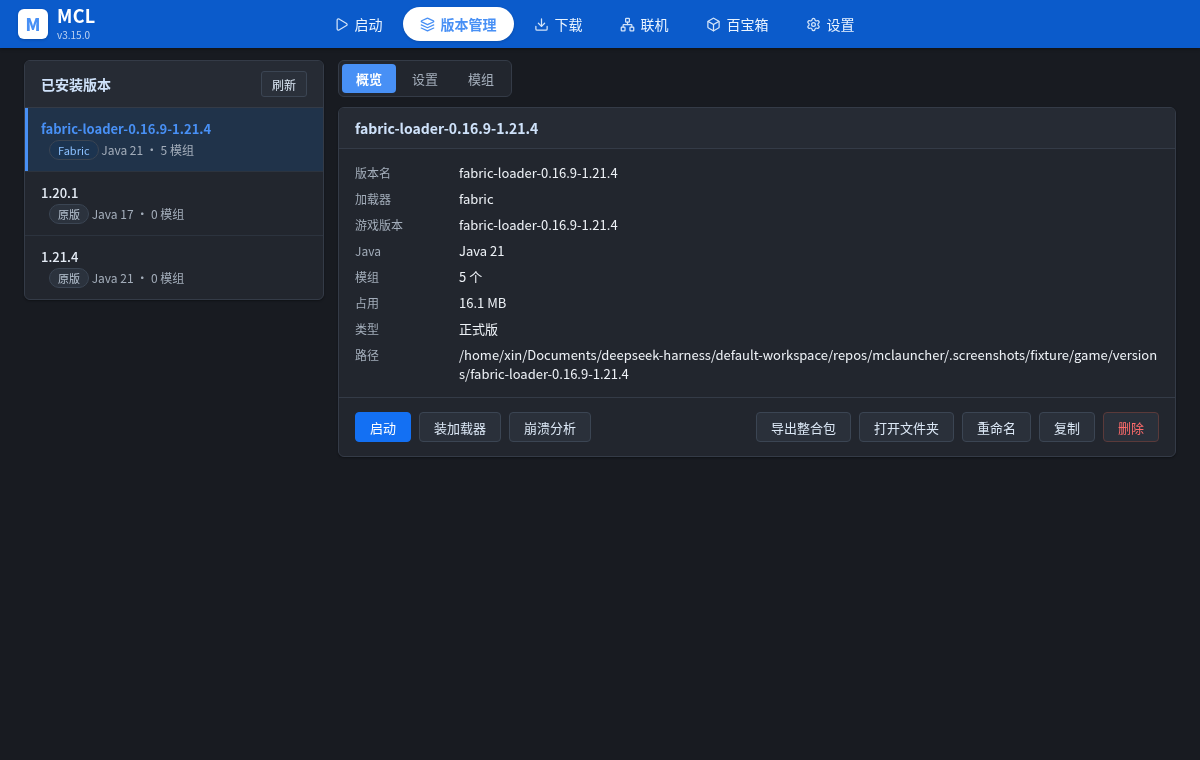
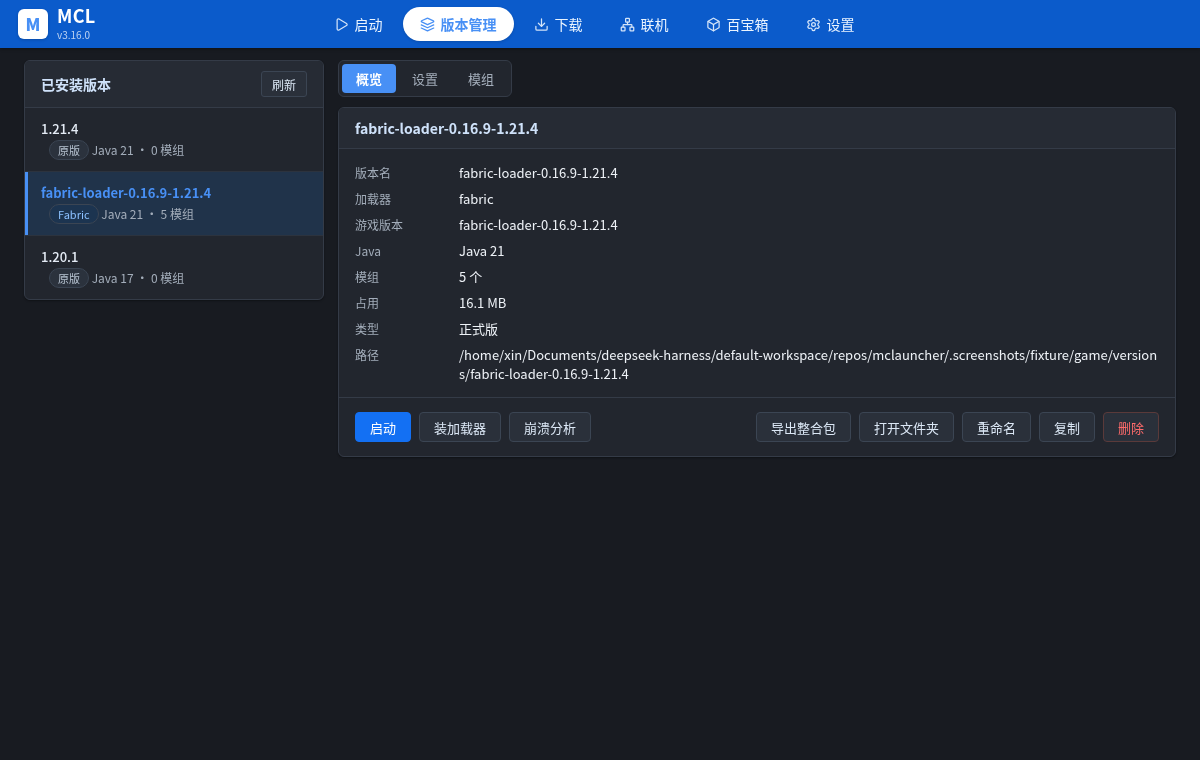
feat: 启动页显示最新版本与更新日志 + 3.17.0
PCL 的启动页右侧有公告区。mclauncher 的启动页右边只有「已安装版本」，
新版本有什么变化得自己去 GitHub 看。

- update.check() 带上发布说明（name / notes，截断 4000 字）
- /api/update 加 10 分钟缓存（?force=1 绕过）；查不到时退回上次结果，
  不让启动页因为网络问题报错
- 启动页右侧顶部新增「最新版本」卡片：版本号、有新版本徽章、发布说明前 6 行、
  查看全部链接、发布日期
- 发布说明是 Markdown，拍平成纯文本：去标题符号、去列表符号、去加粗、
  链接只留文字、过滤 Full Changelog 行
- 测试 226 → 229（notes/截断/缓存各一个）

顺带修了个正则 bug：列表符号规则原来写成 /^[*+-]\s*/，会把 **加粗** 的第一个
星号吃掉，导致 "**Full Changelog**" 变成 "*Full Changelog**" 过滤不掉。
改成必须跟空格（/^[*+-]\s+/）。冒烟测试先失败后通过。

Changed region(s): [[0.0, 0.1211, 0.2775, 0.3329]]

diff --git a/gui/src/renderer.ts b/gui/src/renderer.ts
@@ -35,6 +35,7 @@ interface JavaListing {
 interface UpdateInfo {
   current: string; latest: string; update_available: boolean;
   page: string; published: string; prerelease: boolean;
+  name: string; notes: string; cached?: boolean;
   assets: { name: string; size: number; url: string }[];
 }
 interface AboutInfo {
@@ -274,6 +275,13 @@ function renderVersions(): void {
         <div class="launch-note">${state.versions.length ? "启动前会自动检查 Java 和依赖库。" : "还没有安装任何版本。"}</div>
       </aside>
       <section class="launch-main">
+        <div class="card" id="launch-news">
+          <div class="card-head">
+            <span class="card-title">最新版本</span>
+            <button class="btn sm" id="news-reload">刷新</button>
+          </div>
+          <div class="card-body"><div class="empty">加载中…</div></div>
+        </div>
         ${state.versions.length ? `
         <div class="card">
           <div class="card-head">
@@ -307,6 +315,8 @@ function renderVersions(): void {
     if (button) void launch(id, button);
   };
   content.querySelector("#launch-main")?.addEventListener("click", launchSelected);
+  content.querySelector("#news-reload")?.addEventListener("click", () => void loadNews(true));
+  void loadNews(false);
   content.querySelector("#go-install")?.addEventListener("click", () => setView("download"));
   content.querySelector("#go-install-empty")?.addEventListener("click", () => setView("download"));
   content.querySelector("#refresh")?.addEventListener("click", () => refreshState());
@@ -1609,6 +1619,57 @@ async function loadAbout(): Promise<void> {
   } catch (error) {
     host.innerHTML = `<div class="card-head"><span class="card-title">关于</span></div>
       <div class="card-body"><div class="empty">${esc((error as Error).message)}</div></div>`;
+  }
+}
+
+// 发布说明是 Markdown，这里只取能看的纯文本行
+function formatNotes(text: string, maxLines = 6): string[] {
+  const lines: string[] = [];
+  for (const raw of (text || "").split("\n")) {
+    const line = raw
+      .replace(/^#{1,6}\s*/, "")
+      // 要求星号/减号后面有空格，否则会把 **加粗** 的第一个星号吃掉
+      .replace(/^[*+-]\s+/, "")
+      .replace(/\*\*(.+?)\*\*/g, "$1")
+      .replace(/\[(.+?)\]\((.+?)\)/g, "$1")
+      .trim();
+    if (!line || /^full changelog/i.test(line)) continue;
+    lines.push(line);
+    if (lines.length >= maxLines) break;
+  }
+  return lines;
+}
+
+async function loadNews(force: boolean): Promise<void> {
+  const host = document.getElementById("launch-news");
+  if (!host) return;
+  try {
+    const data = await api<UpdateInfo>(`/api/update${force ? "?force=1" : ""}`);
+    const when = data.published ? data.published.slice(0, 10) : "";
+    const notes = formatNotes(data.notes);
+    host.innerHTML = `
+      <div class="card-head">
+        <span class="card-title">最新版本 ${esc(data.latest)}
+          ${data.update_available ? '<span class="badge red">有新版本</span>' : ""}</span>
+        <button class="btn sm" id="news-reload">刷新</button>
+      </div>
+      <div class="card-body">
+        ${notes.length
+          ? `<div class="news-body">${notes.map((line) => `<div class="news-line">${esc(line)}</div>`).join("")}</div>`
+          : `<div class="small muted">这个版本没有写发布说明。</div>`}
+        <div class="inline" style="margin-top:12px">
+          <a class="btn sm" href="${esc(data.page)}" target="_blank" rel="noreferrer">查看全部</a>
+          ${when ? `<span class="small muted">发布于 ${esc(when)}</span>` : ""}
+          ${data.cached ? `<span class="small muted">（缓存）</span>` : ""}
+        </div>
+      </div>`;
+    host.querySelector("#news-reload")?.addEventListener("click", () => void loadNews(true));
+  } catch (error) {
+    host.innerHTML = `
+      <div class="card-head"><span class="card-title">最新版本</span>
+        <button class="btn sm" id="news-reload">重试</button></div>
+      <div class="card-body"><div class="small muted">查不到更新信息：${esc((error as Error).message)}</div></div>`;
+    host.querySelector("#news-reload")?.addEventListener("click", () => void loadNews(true));
   }
 }
 

diff --git a/gui/src/styles.css b/gui/src/styles.css
@@ -502,3 +502,12 @@ html[data-theme="dark"] .check-mark { background: #1c3450; }
 html[data-theme="dark"] .check-mark.ok { background: #1e3a26; }
 html[data-theme="dark"] .check-mark.warn { background: #3a2f1c; color: #e0a94a; }
 html[data-theme="dark"] .check-mark.bad { background: #45231f; }
+
+/* ---------------- 启动页公告 ---------------- */
+.news-body { display: flex; flex-direction: column; gap: 4px; }
+.news-line {
+  font-size: 12.5px; color: var(--text); line-height: 1.6;
+  padding-left: 10px; border-left: 2px solid var(--pcl-soft);
+  overflow: hidden; text-overflow: ellipsis;
+}
+html[data-theme="dark"] .news-line { border-left-color: var(--border); }

diff --git a/mcl/webui.py b/mcl/webui.py
@@ -28,6 +28,8 @@ from .versions import (VersionError, detect_loader, copy as copy_version, open_f
                        version_size)
 
 TASKS: dict[str, dict] = {}
+UPDATE_CACHE: dict = {"at": 0.0, "data": None}
+UPDATE_TTL = 600.0  # 秒；启动页每次刷新都会问一次，别把 GitHub 打爆
 TASKS_LOCK = threading.Lock()
 MANIFEST_CACHE: dict[str, Manifest] = {}
 
@@ -463,10 +465,22 @@ class Handler(BaseHTTPRequestHandler):
                     "platform": os_name(),
                 })
             if parsed.path == "/api/update":
+                import time as _time
+
+                fresh = UPDATE_CACHE["data"] is not None and \
+                    (_time.time() - UPDATE_CACHE["at"]) < UPDATE_TTL
+                if fresh and query.get("force", [""])[0] in ("", "0", "false"):
+                    return self._json({**UPDATE_CACHE["data"], "cached": True})
                 try:
-                    return self._json(update.check(__version__))
+                    data = update.check(__version__)
                 except update.UpdateError as exc:
+                    # 查不到就退回上次结果（如果有），别让启动页报错
+                    if UPDATE_CACHE["data"] is not None:
+                        return self._json({**UPDATE_CACHE["data"], "cached": True})
                     return self._error(str(exc), 502)
+                UPDATE_CACHE["at"] = _time.time()
+                UPDATE_CACHE["data"] = data
+                return self._json({**data, "cached": False})
             if parsed.path == "/api/worlds":
                 version_id = (query.get("version", [""])[0] or "").strip() or _default_version()
                 if not version_id:

diff --git a/tests/test_webui.py b/tests/test_webui.py
@@ -407,6 +407,28 @@ class WebuiTests(unittest.TestCase):
         self.assertTrue(data["update_available"])
         self.assertEqual(data["latest"], "v9.9.9")
 
+    def test_update_cached(self):
+        from unittest import mock
+
+        payload = {
+            "current": "3.0.0", "latest": "v9.9.9", "update_available": True,
+            "page": "https://example/releases", "published": "", "prerelease": False,
+            "name": "v9.9.9", "notes": "", "assets": [],
+        }
+        from mcl import webui
+
+        webui.UPDATE_CACHE["data"] = None
+        webui.UPDATE_CACHE["at"] = 0.0
+        with mock.patch("mcl.webui.update.check", return_value=payload) as check:
+            first = get_json(self.url + "api/update")
+            second = get_json(self.url + "api/update")
+            get_json(self.url + "api/update?force=1")
+        self.assertFalse(first["cached"])
+        self.assertTrue(second["cached"])
+        self.assertEqual(check.call_count, 2)  # 第二次命中缓存，第三次 force 才重新查
+        webui.UPDATE_CACHE["data"] = None
+        webui.UPDATE_CACHE["at"] = 0.0
+
     def test_update_network_error(self):
         from unittest import mock
 

diff --git a/mcl/update.py b/mcl/update.py
@@ -67,6 +67,7 @@ def check(current: str, fetch: Optional[Callable[[], dict]] = None,
         if name:
             assets.append({"name": str(name), "size": asset.get("size") or 0,
                            "url": str(asset.get("browser_download_url") or "")})
+    body = str(payload.get("body") or "")
     return {
         "current": current,
         "latest": tag,
@@ -74,5 +75,8 @@ def check(current: str, fetch: Optional[Callable[[], dict]] = None,
         "page": str(payload.get("html_url") or RELEASES_PAGE),
         "published": str(payload.get("published_at") or ""),
         "prerelease": bool(payload.get("prerelease", False)),
+        # 发布说明给启动页的公告卡片用，太长就截断（整篇在 GitHub 页面看）
+        "name": str(payload.get("name") or tag),
+        "notes": body[:4000],
         "assets": assets,
     }

diff --git a/tests/test_update.py b/tests/test_update.py
@@ -55,6 +55,20 @@ def fake_payload(tag="v9.9.9", prerelease=False):
 
 
 class CheckTests(unittest.TestCase):
+    def test_notes_and_name(self):
+        payload = fake_payload("v3.15.0")
+        payload["name"] = "MCL 3.15.0"
+        payload["body"] = "## What's Changed\n* feat: x"
+        data = update.check("3.14.0", fetch=lambda: payload)
+        self.assertEqual(data["name"], "MCL 3.15.0")
+        self.assertIn("What's Changed", data["notes"])
+
+    def test_notes_truncated(self):
+        payload = fake_payload("v3.15.0")
+        payload["body"] = "x" * 9000
+        data = update.check("3.14.0", fetch=lambda: payload)
+        self.assertEqual(len(data["notes"]), 4000)
+
     def test_update_available(self):
         data = update.check("3.14.0", fetch=lambda: fake_payload("v3.15.0"))
         self.assertTrue(data["update_available"])

diff --git a/mcl/__init__.py b/mcl/__init__.py
@@ -1,3 +1,3 @@
 """mcl —— Minecraft 下载、版本管理、加载器 / 模组管理、启动。"""
 
-__version__ = "3.16.0"
+__version__ = "3.17.0"

diff --git a/README_EN.md b/README_EN.md
@@ -46,7 +46,7 @@
 
 ## Status
 
-Current version: **v3.16.0**
+Current version: **v3.17.0**
 
 | Status | Area |
 | --- | --- |
@@ -70,7 +70,7 @@ Current version: **v3.16.0**
 | Crash analysis | Reads crash reports / latest.log and explains Java, memory, missing deps, Mixin conflicts, etc. |
 | Accounts | Offline + Microsoft device-code login, local token cache with refresh |
 | Java | Picks the exact major version; downloads the matching Mojang runtime instead of using a newer Java. Settings → Java lists every detected runtime, lets you pin one, or downloads a Mojang runtime |
-| GUI | **Default entry point**: native window (WebKitGTK on Linux / WebView2 on Windows), light/dark/system themes |
+| GUI | **Default entry point**: native window (WebKitGTK on Linux / WebView2 on Windows), light/dark/system themes; the launch page shows the newest release and its notes |
 | TUI | **Feature entry point**: full-screen terminal UI for terminal/keyboard workflows; launching still needs a graphical environment |
 
 ## Screenshots
@@ -458,7 +458,7 @@ mclauncher/
 │   └── ...
 ├── gui/                  TypeScript frontend (esbuild)
 ├── docs/                 README screenshots
-├── tests/                226 tests
+├── tests/                229 tests
 ├── packaging/            deb/rpm/Arch, Windows, macOS, AUR, release helper
 └── pyproject.toml
 ```
@@ -469,7 +469,7 @@ mclauncher/
 python -m unittest discover -s tests -v
 ```
 
-226 tests covering rules, download plans, version merging, version rename/copy, launch arguments, Java, mods,
+229 tests covering rules, download plans, version merging, version rename/copy, launch arguments, Java, mods,
 modpack import and export, shader/resource-pack version resolution,
 server lists and NBT, Server List Ping against a local fake server,
 modpacks, resources, crash analysis, Microsoft auth, TUI and GUI API; no network needed.

diff --git a/README.md b/README.md
@@ -46,7 +46,7 @@
 
 ## 项目状态
 
-当前版本 **v3.16.0**：
+当前版本 **v3.17.0**：
 
 | 状态 | 功能 |
 | --- | --- |
@@ -72,7 +72,7 @@
 | 崩溃分析 | 解析 crash-report / latest.log，给出 Java 版本、内存、缺前置、Mixin 冲突等建议 |
 | 账号 | 仅离线（微软登录被 Mojang 拒绝，已停用） |
 | Java | 按版本要求选主版本，缺了自动从 Mojang 下载，不会拿新 Java 硬启动老版本；设置 → Java 里能看到探测到的所有运行时、手动指定一个、或从 Mojang 下一份 |
-| GUI | **默认入口**：原生窗口（Linux WebKitGTK / Windows WebView2），浅色/深色/跟随系统 |
+| GUI | **默认入口**：原生窗口（Linux WebKitGTK / Windows WebView2），浅色/深色/跟随系统；启动页右侧显示最新版本与更新日志 |
 | TUI | **特色入口**：全屏终端界面，适合习惯终端/键盘操作的用户；启动游戏仍需图形环境 |
 
 ## 截图
@@ -443,7 +443,7 @@ mclauncher/
 python -m unittest discover -s tests -v
 ```
 
-226 个测试，覆盖规则、下载计划、版本合并、版本改名/复制、启动参数、Java 探测与指定、环境诊断、版本比较与检查更新、模组、整合包导入导出、
+229 个测试，覆盖规则、下载计划、版本合并、版本改名/复制、启动参数、Java 探测与指定、环境诊断、版本比较与检查更新、模组、整合包导入导出、
 光影/材质包的游戏版本解析、数据包与存档路径、
 服务器列表与 NBT、Server List Ping（用本地假服务器）、删除、TUI（无需终端）和 GUI API；不需要网络。
 
